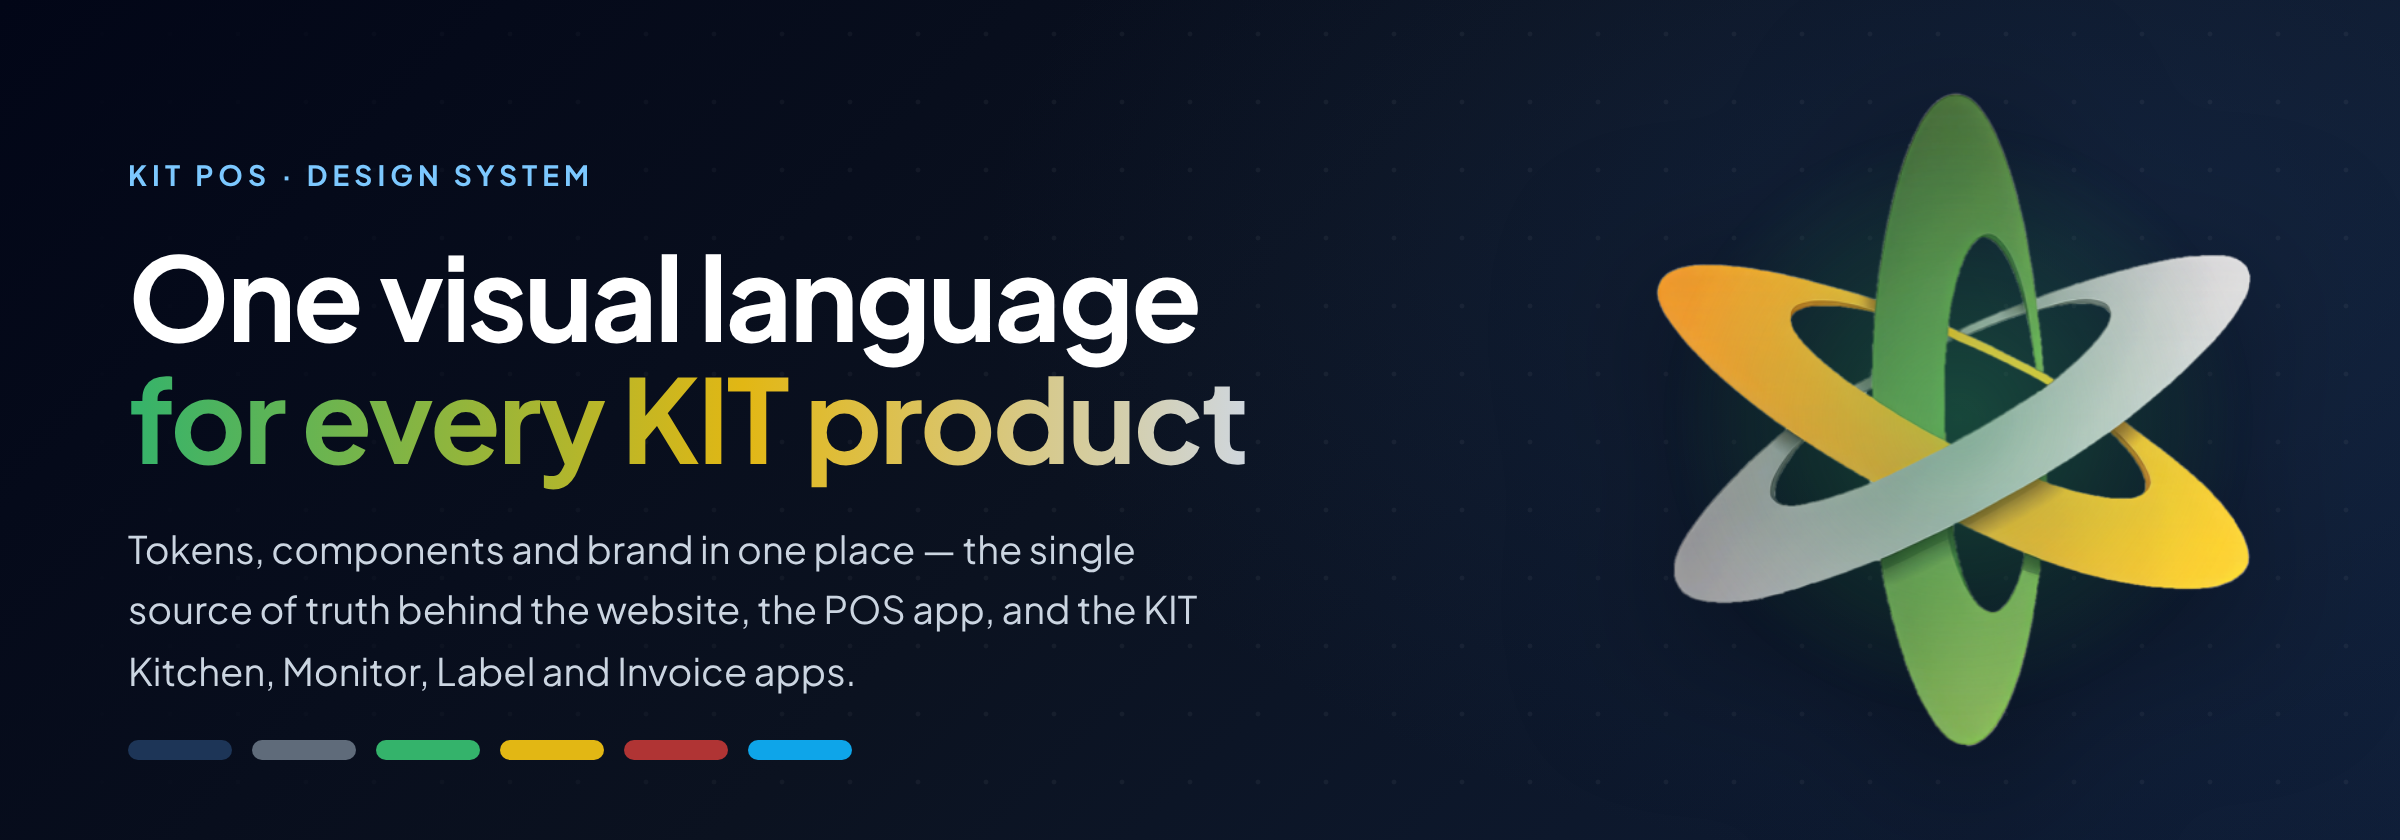
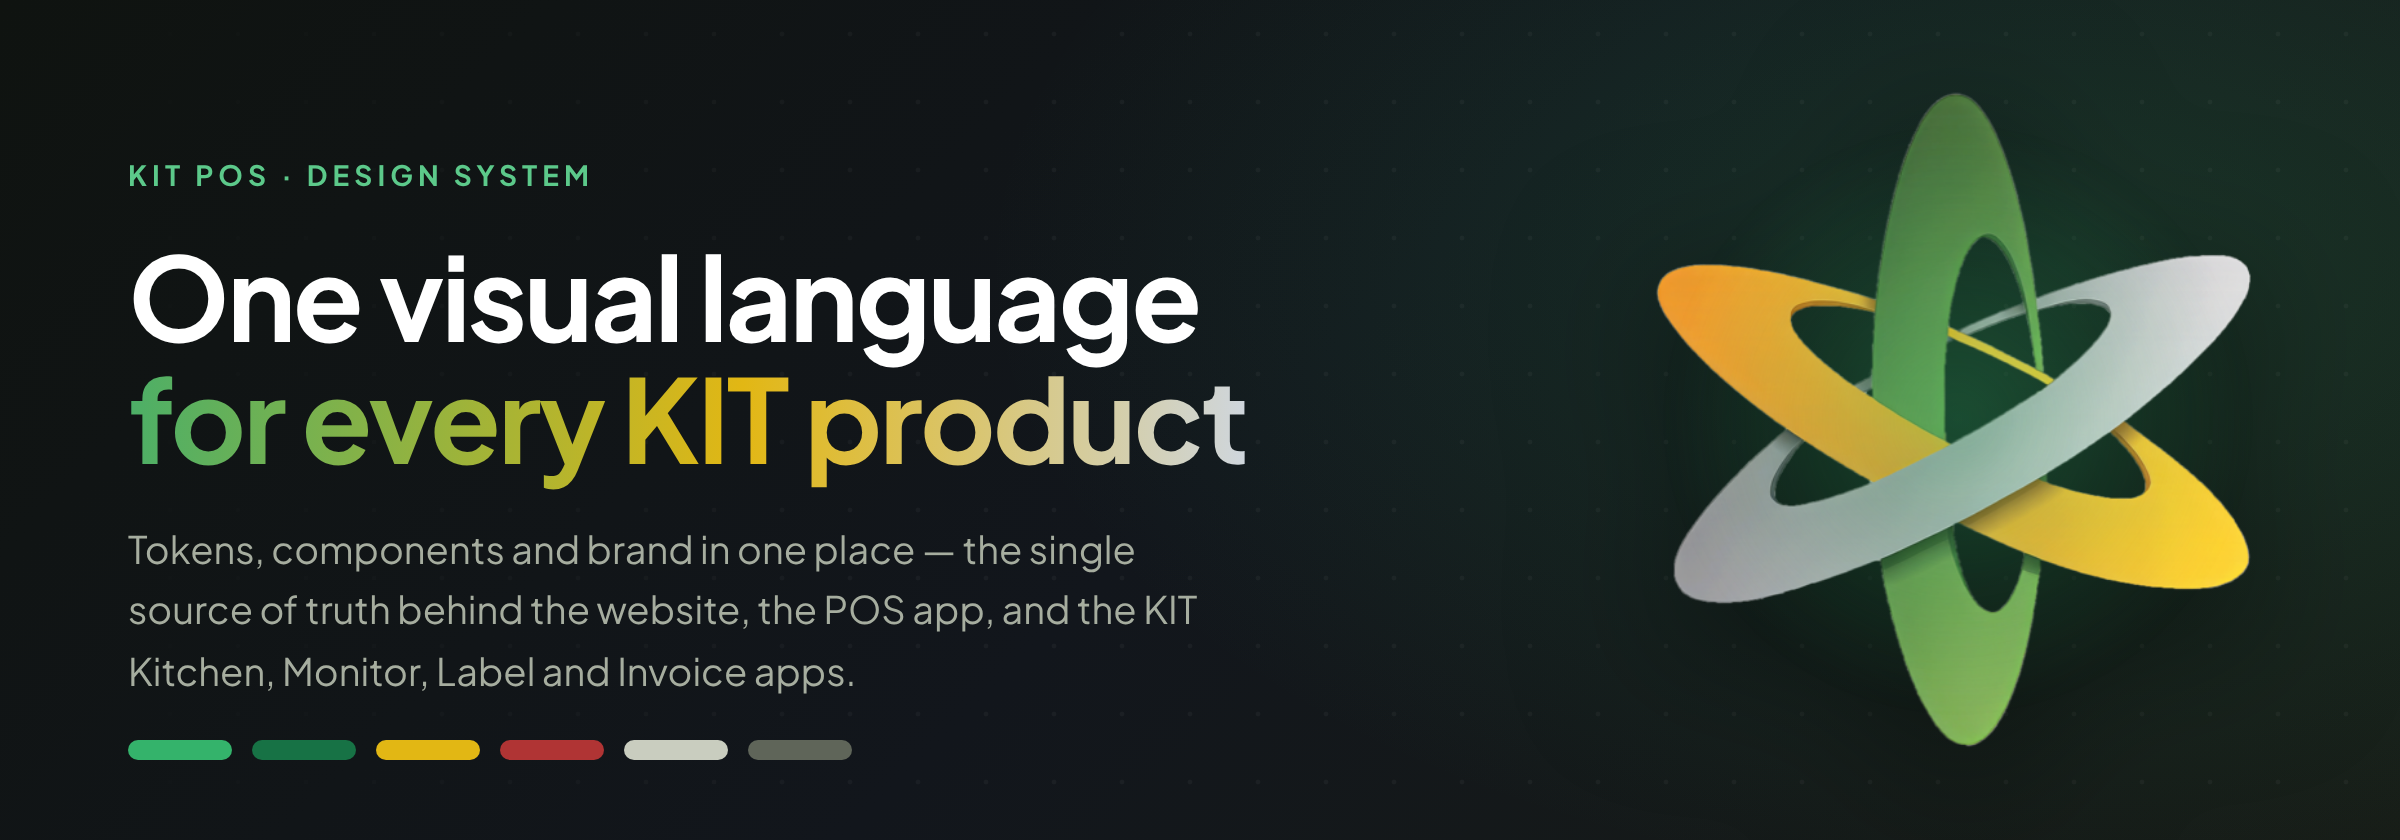
docs(readme): hero in the approved KIT signature palette
Switch the README hero off navy to the approved KIT signature (page
"Почерк KIT", 26 Oct): warm/cool near-black ground, green/amber/grey atom
accents, no blue. The navy variant is kept as source/hero-navy.html.

Claude-Session: https://claude.ai/code/session_013sBMiDVhHoKRMKGSKZ6iyj

diff --git a/assets/readme/source/hero.html b/assets/readme/source/hero.html
@@ -2,32 +2,33 @@
 <link rel="stylesheet" href="fonts.css">
 <link rel="stylesheet" href="../../../project/colors_and_type.css">
 <style>
+  /* Approved KIT signature palette (page "Почерк KIT", 2026-10-26): warm/cool
+     near-black, the green/amber/grey atom, NO blue. */
   html,body{margin:0}
   .stage{
     width:1200px;height:420px;box-sizing:border-box;position:relative;overflow:hidden;
     font-family:var(--font-sans);
     background:
-      radial-gradient(900px 520px at 86% 30%, #1d355766 0%, #1d355700 60%),
-      linear-gradient(135deg, #020617 0%, #0b1220 48%, #0f1e38 100%);
-    color:#f1f5f9;
+      radial-gradient(900px 520px at 86% 32%, #34b36b2e 0%, #34b36b00 60%),
+      linear-gradient(135deg, #0f1310 0%, #12161c 52%, #171c17 100%);
+    color:#eef0e8;
   }
-  /* faint dotted grid */
   .stage::before{
     content:"";position:absolute;inset:0;opacity:.5;
-    background-image:radial-gradient(#ffffff18 1px, transparent 1.4px);
+    background-image:radial-gradient(#ffffff14 1px, transparent 1.4px);
     background-size:34px 34px;
     -webkit-mask-image:linear-gradient(90deg,#0000 0%,#000 40%);
     mask-image:linear-gradient(90deg,#0000 0%,#000 40%);
   }
   .copy{position:absolute;left:64px;top:76px;width:620px;z-index:2}
-  .eyebrow{font-weight:700;font-size:14px;letter-spacing:.18em;text-transform:uppercase;color:#7cc8ff;margin:0 0 20px}
+  .eyebrow{font-weight:700;font-size:14px;letter-spacing:.18em;text-transform:uppercase;color:#5cc98a;margin:0 0 20px}
   h1{font-weight:700;font-size:58px;line-height:1.04;letter-spacing:-.025em;margin:0 0 20px;color:#ffffff}
-  h1 .g{background:linear-gradient(90deg,#34B36B,#E2B714 55%,#cfd6dd);-webkit-background-clip:text;background-clip:text;color:transparent}
-  p{font-weight:400;font-size:19px;line-height:1.6;color:#cbd5e1;margin:0;max-width:540px}
+  h1 .g{background:linear-gradient(90deg,#4caf67,#E2B714 55%,#cfd6dd);-webkit-background-clip:text;background-clip:text;color:transparent}
+  p{font-weight:400;font-size:19px;line-height:1.6;color:#a6ad9f;margin:0;max-width:540px}
   .atom{position:absolute;right:56px;top:50%;transform:translateY(-50%);width:330px;height:330px;z-index:1}
-  .atom::after{content:"";position:absolute;inset:-12% ;border-radius:50%;
+  .atom::after{content:"";position:absolute;inset:-12%;border-radius:50%;
     background:radial-gradient(closest-side,#34b36b55,#34b36b00 70%);filter:blur(6px)}
-  .atom img{position:relative;width:100%;height:100%;object-fit:contain;filter:drop-shadow(0 18px 40px #0008)}
+  .atom img{position:relative;width:100%;height:100%;object-fit:contain;filter:drop-shadow(0 18px 40px #0009)}
   .chips{position:absolute;left:64px;bottom:40px;display:flex;gap:10px;z-index:2}
   .chips i{width:52px;height:10px;border-radius:999px;display:block}
 </style></head>
@@ -40,9 +41,9 @@
     </div>
     <div class="atom"><img src="../../../project/apps/kit-atom.png" alt="KIT atom"></div>
     <div class="chips">
-      <i style="background:#1d3557"></i><i style="background:#5f6b7a"></i>
-      <i style="background:#34B36B"></i><i style="background:#E2B714"></i>
-      <i style="background:#B03434"></i><i style="background:#0ea5e9"></i>
+      <i style="background:#34B36B"></i><i style="background:#177245"></i>
+      <i style="background:#E2B714"></i><i style="background:#B03434"></i>
+      <i style="background:#c9cdbf"></i><i style="background:#5f6559"></i>
     </div>
   </div>
 </body></html>

diff --git a/assets/readme/source/hero-navy.html b/assets/readme/source/hero-navy.html
@@ -1,0 +1,48 @@
+<!DOCTYPE html><html><head><meta charset="utf-8">
+<link rel="stylesheet" href="fonts.css">
+<link rel="stylesheet" href="../../../project/colors_and_type.css">
+<style>
+  html,body{margin:0}
+  .stage{
+    width:1200px;height:420px;box-sizing:border-box;position:relative;overflow:hidden;
+    font-family:var(--font-sans);
+    background:
+      radial-gradient(900px 520px at 86% 30%, #1d355766 0%, #1d355700 60%),
+      linear-gradient(135deg, #020617 0%, #0b1220 48%, #0f1e38 100%);
+    color:#f1f5f9;
+  }
+  /* faint dotted grid */
+  .stage::before{
+    content:"";position:absolute;inset:0;opacity:.5;
+    background-image:radial-gradient(#ffffff18 1px, transparent 1.4px);
+    background-size:34px 34px;
+    -webkit-mask-image:linear-gradient(90deg,#0000 0%,#000 40%);
+    mask-image:linear-gradient(90deg,#0000 0%,#000 40%);
+  }
+  .copy{position:absolute;left:64px;top:76px;width:620px;z-index:2}
+  .eyebrow{font-weight:700;font-size:14px;letter-spacing:.18em;text-transform:uppercase;color:#7cc8ff;margin:0 0 20px}
+  h1{font-weight:700;font-size:58px;line-height:1.04;letter-spacing:-.025em;margin:0 0 20px;color:#ffffff}
+  h1 .g{background:linear-gradient(90deg,#34B36B,#E2B714 55%,#cfd6dd);-webkit-background-clip:text;background-clip:text;color:transparent}
+  p{font-weight:400;font-size:19px;line-height:1.6;color:#cbd5e1;margin:0;max-width:540px}
+  .atom{position:absolute;right:56px;top:50%;transform:translateY(-50%);width:330px;height:330px;z-index:1}
+  .atom::after{content:"";position:absolute;inset:-12% ;border-radius:50%;
+    background:radial-gradient(closest-side,#34b36b55,#34b36b00 70%);filter:blur(6px)}
+  .atom img{position:relative;width:100%;height:100%;object-fit:contain;filter:drop-shadow(0 18px 40px #0008)}
+  .chips{position:absolute;left:64px;bottom:40px;display:flex;gap:10px;z-index:2}
+  .chips i{width:52px;height:10px;border-radius:999px;display:block}
+</style></head>
+<body>
+  <div class="stage">
+    <div class="copy">
+      <p class="eyebrow">KIT POS · Design System</p>
+      <h1>One visual language<br><span class="g">for every KIT product</span></h1>
+      <p>Tokens, components and brand in one place — the single source of truth behind the website, the POS app, and the KIT Kitchen, Monitor, Label and Invoice apps.</p>
+    </div>
+    <div class="atom"><img src="../../../project/apps/kit-atom.png" alt="KIT atom"></div>
+    <div class="chips">
+      <i style="background:#1d3557"></i><i style="background:#5f6b7a"></i>
+      <i style="background:#34B36B"></i><i style="background:#E2B714"></i>
+      <i style="background:#B03434"></i><i style="background:#0ea5e9"></i>
+    </div>
+  </div>
+</body></html>
